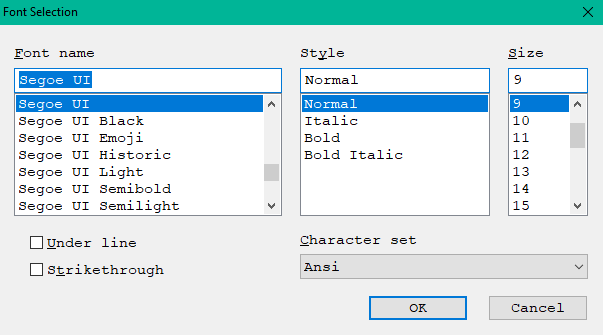
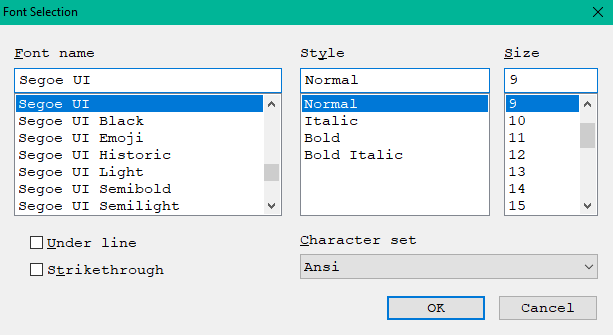
韓国語版追加と中国語版の語句の変更によるダイアログサイズ変更に伴う変更。

diff --git a/help/ja-jp/contents/01.html b/help/ja-jp/contents/01.html
@@ -59,7 +59,10 @@ The sources for noMeiryoUI are distributed under the MIT open source license
 <td>English.lng</td><td>英語で動作させるときのメッセージを記述したファイルです。</td>
 </tr>
 <tr>
-<td>default.lng</td><td>日本語、英語、簡体字中国語以外で動作させるときのメッセージを英語で記述したファイルです。</td>
+<td>Korean.lng</td><td>韓国語で動作させるときのメッセージを記述したファイルです。</td>
+</tr>
+<tr>
+<td>default.lng</td><td>日本語、英語、簡体字中国語、韓国語以外で動作させるときのメッセージを英語で記述したファイルです。</td>
 </tr>
 <tr>
 <td>Japanese.chm</td><td>日本語版ヘルプファイルです。</td>
@@ -71,7 +74,10 @@ The sources for noMeiryoUI are distributed under the MIT open source license
 <td>English.chm</td><td>英語版ヘルプファイルです。</td>
 </tr>
 <tr>
-<td>default.chm</td><td>日本語、英語、簡体字中国語以外で動作させるときのヘルプファイルです。</td>
+<td>Korean.chm</td><td>韓国語版ヘルプファイルです。</td>
+</tr>
+<tr>
+<td>default.chm</td><td>日本語、英語、簡体字中国語、韓国語以外で動作させるときのヘルプファイルです。</td>
 </tr>
 <tr>
 <td>src.zip</td><td>本ソフトのソースファイルです。<br>通常は使用しませんが、本ソフトの動作を調べたい場合やプログラムを改良したい場合に使用します。</td>

diff --git a/help/ja-jp/contents/02.html b/help/ja-jp/contents/02.html
@@ -64,7 +64,7 @@ The sources for noMeiryoUI are distributed under the MIT open source license
 <h2><a id="FontSel">2.4 フォントの選択</a></h2>
 <p>
 　フォント名の横にある選択ボタンを押下すると下記のフォント選択ダイアログが表示されます。<br>
-<img src="FontSel.PNG" width="603" height="335" alt="フォント選択ダイアログ"><br>
+<img src="FontSel.PNG" width="613" height="335" alt="フォント選択ダイアログ"><br>
 </p>
 <p>
 　フォント選択ダイアログでは以下の指定を行うことができます。<br>

diff --git a/help/en-us/contents/01.html b/help/en-us/contents/01.html
@@ -54,6 +54,9 @@ This program runs on Windows 8,8.1 and 10.<br>
 <td>English.lng</td><td>English message file.</td>
 </tr>
 <tr>
+<td>Korean.lng</td><td>Korean message file.</td>
+</tr>
+<tr>
 <td>default.lng</td><td>Default message file.</td>
 </tr>
 <tr>
@@ -64,6 +67,9 @@ This program runs on Windows 8,8.1 and 10.<br>
 </tr>
 <tr>
 <td>English.chm</td><td>English help file.</td>
+</tr>
+<tr>
+<td>Korean.chm</td><td>Korean help file.</td>
 </tr>
 <tr>
 <td>default.chm</td><td>Default help file.</td>

diff --git a/help/en-us/contents/02.html b/help/en-us/contents/02.html
@@ -34,7 +34,7 @@ Push select... button to set user interface element.<br>
 
 <p>
 When you push select... button, this dialog is displayed.<br>
-<img src="FontSel.PNG" width="603" height="335"><br>
+<img src="FontSel.PNG" width="613" height="335"><br>
 </p>
 <p>
 Choice font face, font size, font style, charset, and push OK button.
